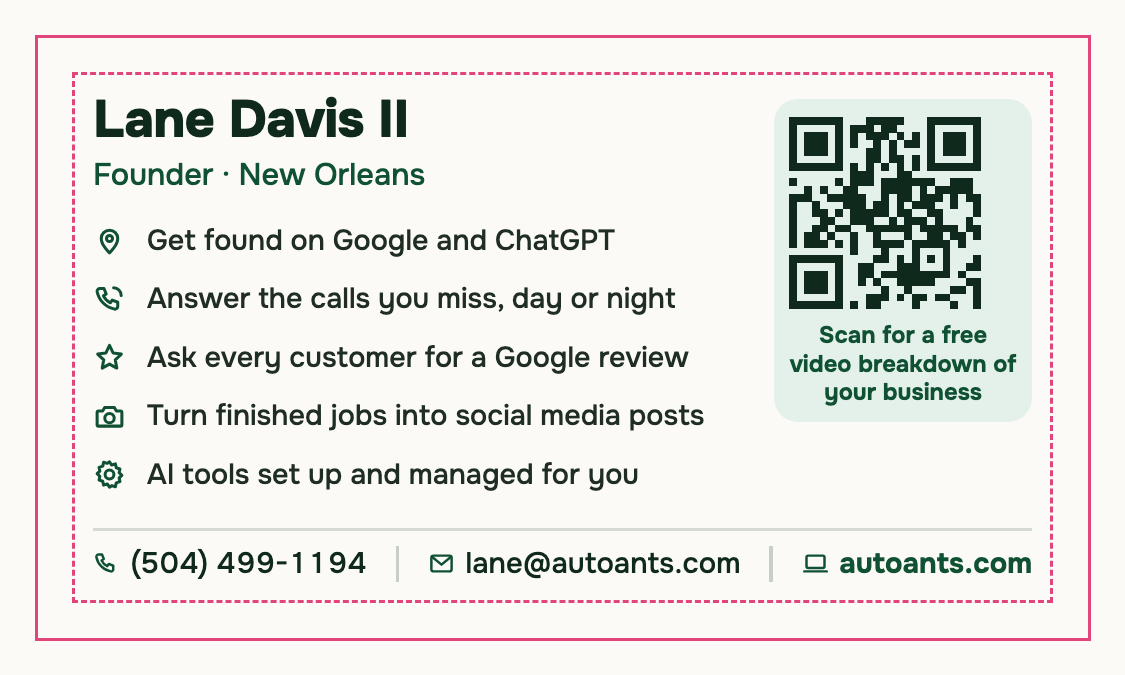
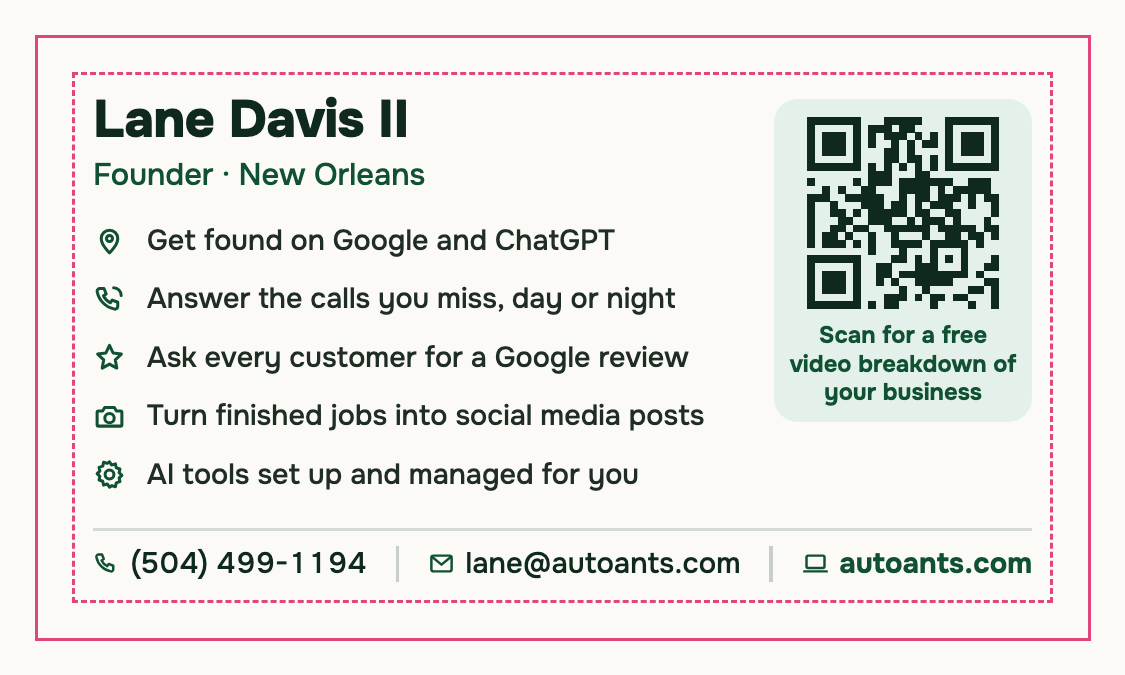
brand(card): center the QR code in its panel (it sat to the left)

Changed region(s): [[0.6844, 0.1556, 0.9022, 0.4667]]

diff --git a/brand/print/business-card/make_card.py b/brand/print/business-card/make_card.py
@@ -60,7 +60,7 @@ def qr_svg(url, size_in, fg=INK, ant=False):
                 f'<circle cx="{c}" cy="{c + r*0.12}" r="{r*0.72}" fill="{MINT}"/>'
                 f'<circle cx="{c - r*0.26}" cy="{c + r*0.08}" r="{r*0.11}" fill="{FOREST}"/>'
                 f'<circle cx="{c + r*0.26}" cy="{c + r*0.08}" r="{r*0.11}" fill="{FOREST}"/>')
-    return (f'<svg viewBox="0 0 {n} {n}" style="width:{size_in}in;height:{size_in}in;display:block" shape-rendering="crispEdges">'
+    return (f'<svg viewBox="0 0 {n} {n}" style="width:{size_in}in;height:{size_in}in;display:block;margin:0 auto" shape-rendering="crispEdges">'
             f'<g fill="{fg}">{rects}</g><g shape-rendering="geometricPrecision">{face}</g></svg>')
 
 
